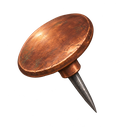
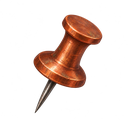
Match offer cards to approved full-height artwork and compact right-column layout

Changed region(s): [[0.125, 0.0938, 0.8125, 0.9062]]

diff --git a/src/Orders.tsx b/src/Orders.tsx
@@ -30,9 +30,9 @@ export function OrderTraits({order:o,alignLeft=false}:any){
  const band=o.durationBand||durationBand(o.durationSeconds??o.forecast?.seconds??0),bars=band==='Lang'?3:band==='Mittel'?2:1;
  const category=o.category==='international'?'Fern':o.category==='city'?'Stadt':'Nah',dual=o.routeType==='dual';
  return <View style={[styles.traits,alignLeft&&styles.leftTraits]}>
-  <View accessible accessibilityLabel={translate(category==='Nah'?'Nahverkehr':category==='Fern'?'Fernverkehr':'Stadtverkehr')} style={styles.trait}><Icon name="location" size={13} color={C.muted}/><Txt style={styles.traitLabel}>{category}</Txt></View>
-  <View accessible accessibilityLabel={translate(band)} style={styles.trait}><View testID={`duration-bars-${bars}`} style={styles.signal}>{[0,1,2].map(i=><View key={i} style={{width:3,height:4+i*4,backgroundColor:i<bars?C.text:'transparent',borderRadius:1}}/>)}</View><Txt style={styles.traitLabel}>{band}</Txt></View>
-  {!!o.routeType&&<View accessible accessibilityLabel={translate(dual?'Dual Way, beladene Hin- und Rückfahrt':'Single Way, beladene Hinfahrt und leere Rückfahrt')} style={styles.trait}><View style={styles.directions}><Icon name="direction" size={16} color={C.text}/><Icon name="direction" size={16} color={C.text} style={{transform:[{rotate:'180deg'}],opacity:dual?1:.25,marginTop:-7}}/></View><Txt style={styles.traitLabel}>{dual?'Dual':'Single'}</Txt></View>}
+  <View accessible accessibilityLabel={translate(category==='Nah'?'Nahverkehr':category==='Fern'?'Fernverkehr':'Stadtverkehr')} style={[styles.trait,alignLeft&&styles.compactTrait]}><Icon name="location" size={13} color={C.muted}/><Txt style={styles.traitLabel}>{category}</Txt></View>
+  <View accessible accessibilityLabel={translate(band)} style={[styles.trait,alignLeft&&styles.compactTrait]}><View testID={`duration-bars-${bars}`} style={styles.signal}>{[0,1,2].map(i=><View key={i} style={{width:3,height:4+i*4,backgroundColor:i<bars?C.text:'transparent',borderRadius:1}}/>)}</View><Txt style={styles.traitLabel}>{band}</Txt></View>
+  {!!o.routeType&&<View accessible accessibilityLabel={translate(dual?'Dual Way, beladene Hin- und Rückfahrt':'Single Way, beladene Hinfahrt und leere Rückfahrt')} style={[styles.trait,alignLeft&&styles.compactTrait]}><View style={styles.directions}><Icon name="direction" size={16} color={C.text}/><Icon name="direction" size={16} color={C.text} style={{transform:[{rotate:'180deg'}],opacity:dual?1:.25,marginTop:-7}}/></View><Txt style={styles.traitLabel}>{dual?'Dual':'Single'}</Txt></View>}
  </View>;
 }
 export function OrderTile({order:o,data,clock,onOpen,onPin,busy=false}:any){
@@ -42,12 +42,15 @@ export function OrderTile({order:o,data,clock,onOpen,onPin,busy=false}:any){
  if(!active&&!done)return <Card style={[styles.offer,styles.compactOffer,{borderLeftColor:o.customer?C.gold:C.rare}]}>
   <Pressable testID={`order-open-${o.id}`} accessibilityRole="button" accessibilityLabel={`${translate(o.cargo)}, ${o.id}, ${translate(o.category==='international'?'Fernverkehr':'Nahverkehr')}, ${translate(o.durationBand||durationBand(o.durationSeconds??o.forecast?.seconds??0))}, ${translate(o.routeType==='dual'?'Dual Way, beladene Hin- und Rückfahrt':'Single Way, beladene Hinfahrt und leere Rückfahrt')}, ${n(o.volume,1)} t, ${n(o.distance)} km`} onPress={()=>onOpen(o.id)} style={StyleSheet.absoluteFill}/>
   <View pointerEvents="none" accessibilityElementsHidden importantForAccessibility="no-hide-descendants">
-   <View style={styles.offerMain}><OrderArtwork cargo={o.cargo} size={60}/>
-    <View style={[styles.offerCopy,canPin&&styles.pinnableCopy]}><Txt style={[styles.title,canPin&&styles.offerTitle]}>{o.cargo}</Txt>
+   <View style={styles.offerMain}>
+    <View style={styles.offerCargo}><OrderArtwork cargo={o.cargo} fill/></View>
+    <View style={styles.offerDivider}/>
+    <View style={styles.offerCopy}><Txt style={[styles.title,canPin&&styles.offerTitle]}>{o.cargo}</Txt>
      <View testID={`order-facts-${o.id}`} style={styles.offerFacts}><View style={styles.offerFact}><Icon name="orders" size={13} color={C.muted}/><Txt style={styles.factValue}>{n(o.volume,1)} t</Txt></View><View style={styles.offerFact}><Icon name="location" size={13} color={C.muted}/><Txt style={styles.factValue}>{n(o.distance)} km</Txt></View></View>
-   </View></View>
-   <OrderTraits order={o} alignLeft/>
-   {(o.customer||!o.choices.length)&&<View style={{marginTop:5}}>{o.customer&&<Txt gold style={styles.traitLabel}>{o.customerName}</Txt>}{!o.choices.length&&<Txt muted style={styles.traitLabel}>{unavailable(o)}</Txt>}</View>}
+     <OrderTraits order={o} alignLeft/>
+     {(o.customer||!o.choices.length)&&<View style={{marginTop:5}}>{o.customer&&<Txt gold style={styles.traitLabel}>{o.customerName}</Txt>}{!o.choices.length&&<Txt muted style={styles.traitLabel}>{unavailable(o)}</Txt>}</View>}
+    </View>
+   </View>
   </View>
   {canPin&&<Pressable testID={`order-pin-${o.id}`} accessibilityRole="button" accessibilityLabel={translate(o.pinned?'Angebot freigeben':'Angebot halten')} accessibilityHint={holdFull?translate('Alle Halteplätze sind belegt.'):undefined} accessibilityState={{disabled:pinDisabled,selected:!!o.pinned}} aria-pressed={!!o.pinned} disabled={pinDisabled} onPress={event=>{event?.stopPropagation();if(!pinDisabled)onPin(o.id);}} material={false} style={[styles.pinButton,pinDisabled&&{opacity:.5}]}><OfferPinArtwork held={!!o.pinned}/></Pressable>}
  </Card>;
@@ -185,4 +188,4 @@ export function OrderDetail({data,id,busy,clock,onCommand,onBack,onSwitch,modalB
   {done&&reward?<Card><Txt style={[styles.title,{marginBottom:12}]}>Abschlussprämie</Txt>{fact('Imperium-Taler',`${n(reward.coins,2)}`)}{Object.entries(reward.gears||{}).filter(([,amount])=>Number(amount)>0).map(([rarity,amount])=><View key={rarity}><ItemAmount id={`gear:${rarity}`} label={`${data.catalog.rarities.find((r:any)=>r.id===rarity)?.label||rarity}-Zahnräder`} amount={Number(amount)}/></View>)}{reward.companyItems>0&&<ItemAmount id="companyItems" amount={reward.companyItems}/>}{reward.capacityModule&&<ItemAmount id="capacityModules" amount={1}/>}{reward.supplierContacts>0&&<ItemAmount id="supplierContacts" amount={reward.supplierContacts}/>}{!reward.claimedAt?<Btn disabled={busy} onPress={()=>onCommand('claim',{id:o.id})}>Prämie abholen</Btn>:<Txt muted>Abgeholt</Txt>}</Card>:null}
  </>;
 }
-const styles=StyleSheet.create({compactOffer:{position:'relative',paddingHorizontal:10,paddingVertical:8,minHeight:90},offerMain:{flexDirection:'row',alignItems:'center',gap:10,minHeight:60},offerCopy:{flex:1,minWidth:0},pinnableCopy:{paddingRight:0},offerTitle:{paddingRight:30},offerFacts:{flexDirection:'row',flexWrap:'wrap',columnGap:13,rowGap:2,marginTop:4,paddingRight:25},offerFact:{flexDirection:'row',alignItems:'center',gap:6},factValue:{fontSize:11,lineHeight:16},pinButton:{position:'absolute',right:6,top:3,width:44,height:44,alignItems:'center',justifyContent:'center',borderRadius:6},leftTraits:{justifyContent:'flex-start',columnGap:20,rowGap:5,flexWrap:'wrap'},traits:{flexDirection:'row',alignItems:'center',justifyContent:'space-between',gap:5,marginTop:6,borderTopWidth:StyleSheet.hairlineWidth,borderTopColor:C.line,paddingTop:5},trait:{flexDirection:'row',alignItems:'center',gap:4,flexShrink:1},traitLabel:{fontSize:11,lineHeight:16},signal:{width:15,height:14,flexDirection:'row',alignItems:'flex-end',gap:2,paddingBottom:1},directions:{height:19,width:18,justifyContent:'center'},tabs:{flexDirection:'row',gap:5,marginBottom:10},tab:{flex:1,minHeight:44,flexDirection:'row',alignItems:'center',justifyContent:'center',gap:5,borderWidth:1,borderColor:C.line,backgroundColor:C.panel,borderRadius:5},activeTab:{backgroundColor:C.accent,borderColor:C.ink},tabLabel:{fontSize:12,fontWeight:'700'},tabCount:{fontSize:11,color:C.muted},selectedTabText:{color:C.onInk},metrics:{flexDirection:'row',flexWrap:'wrap',gap:6},metric:{width:'48%',minWidth:0,flexDirection:'row',alignItems:'baseline',gap:5},metricLabel:{fontSize:10,lineHeight:15},metricValue:{fontSize:11,lineHeight:16,fontWeight:'700',flexShrink:1},quoteDisclosure:{minHeight:30,flexDirection:'row',alignItems:'center',justifyContent:'space-between',borderTopWidth:1,borderTopColor:C.line,marginTop:5},quoteDetails:{paddingTop:2},possibleRewards:{flexDirection:'row',flexWrap:'wrap',gap:6},possibleItem:{width:44,height:44,alignItems:'center',justifyContent:'center',backgroundColor:C.raised,borderWidth:1,borderRadius:6},possibleLabel:{fontSize:10,lineHeight:14,textAlign:'center'},title:{fontSize:15,fontWeight:'700'},small:{fontSize:12,lineHeight:17},section:{fontSize:13,fontWeight:'700',color:C.muted,marginTop:10,marginBottom:9},offer:{paddingHorizontal:12,paddingVertical:10,backgroundColor:C.panel,borderColor:C.line,borderLeftWidth:3,marginBottom:9},saved:{paddingHorizontal:10,paddingVertical:7,backgroundColor:C.panel,borderColor:C.line,minHeight:78},running:{paddingHorizontal:12,paddingVertical:10,backgroundColor:C.greenWash,borderColor:C.accent},refresh:{flexDirection:'row',alignItems:'center',justifyContent:'space-between',gap:8,marginBottom:8},refreshClock:{flexDirection:'row',alignItems:'center',gap:5,flexShrink:0},refreshTime:{fontSize:12,lineHeight:18,fontVariant:['tabular-nums']},refreshButton:{flex:1,maxWidth:210,minHeight:44,paddingHorizontal:10,paddingVertical:5,alignItems:'center',justifyContent:'center',backgroundColor:C.raised,borderWidth:1,borderBottomWidth:3,borderColor:C.line,borderRadius:5},refreshButtonLabel:{fontSize:12,lineHeight:17,fontWeight:'700',textAlign:'center'},refreshCost:{fontSize:11,lineHeight:16,textAlign:'center'},runningCard:{paddingHorizontal:9,paddingVertical:9},runningMain:{flexDirection:'row',alignItems:'center',gap:10},transportArt:{width:80},runningCopy:{flex:1,minWidth:0},runningHeading:{flexDirection:'row',alignItems:'flex-start',gap:5},runningTitle:{flex:1,fontSize:14,lineHeight:19},countdown:{fontSize:11,lineHeight:19,fontVariant:['tabular-nums']},transportName:{fontSize:11,lineHeight:16,marginTop:1},delivery:{flexDirection:'row',alignItems:'center',gap:8,marginTop:3},deliveryCount:{fontSize:11,lineHeight:16},deliveryBar:{flex:1},savedMain:{flexDirection:'row',alignItems:'center',gap:9},savedCopy:{flex:1,minWidth:0},savedTitle:{fontSize:15,lineHeight:20,fontWeight:'700'},savedCount:{minWidth:28,minHeight:28,padding:4,borderWidth:1,borderColor:C.line,borderRadius:4,alignItems:'center',justifyContent:'center',backgroundColor:C.accent},savedCountText:{fontSize:14,fontWeight:'700',color:C.onInk},vehicle:{padding:10,borderWidth:1,borderColor:C.line,borderRadius:10,marginTop:10}});
+const styles=StyleSheet.create({compactOffer:{position:'relative',paddingHorizontal:10,paddingVertical:8,minHeight:90},offerMain:{flexDirection:'row',alignItems:'center',gap:9,minHeight:84},offerCargo:{width:'29%',alignSelf:'stretch'},offerDivider:{width:StyleSheet.hairlineWidth,alignSelf:'stretch',backgroundColor:C.line,marginVertical:2},offerCopy:{flex:1,minWidth:0},offerTitle:{paddingRight:30},offerFacts:{flexDirection:'row',flexWrap:'wrap',columnGap:13,rowGap:2,marginTop:4,paddingRight:25},offerFact:{flexDirection:'row',alignItems:'center',gap:6},factValue:{fontSize:11,lineHeight:16},pinButton:{position:'absolute',right:6,top:3,width:44,height:44,alignItems:'center',justifyContent:'center',borderRadius:6},leftTraits:{justifyContent:'flex-start',columnGap:9,rowGap:4,flexWrap:'wrap'},compactTrait:{flexShrink:0},traits:{flexDirection:'row',alignItems:'center',justifyContent:'space-between',gap:5,marginTop:6,borderTopWidth:StyleSheet.hairlineWidth,borderTopColor:C.line,paddingTop:5},trait:{flexDirection:'row',alignItems:'center',gap:4,flexShrink:1},traitLabel:{fontSize:11,lineHeight:16},signal:{width:15,height:14,flexDirection:'row',alignItems:'flex-end',gap:2,paddingBottom:1},directions:{height:19,width:18,justifyContent:'center'},tabs:{flexDirection:'row',gap:5,marginBottom:10},tab:{flex:1,minHeight:44,flexDirection:'row',alignItems:'center',justifyContent:'center',gap:5,borderWidth:1,borderColor:C.line,backgroundColor:C.panel,borderRadius:5},activeTab:{backgroundColor:C.accent,borderColor:C.ink},tabLabel:{fontSize:12,fontWeight:'700'},tabCount:{fontSize:11,color:C.muted},selectedTabText:{color:C.onInk},metrics:{flexDirection:'row',flexWrap:'wrap',gap:6},metric:{width:'48%',minWidth:0,flexDirection:'row',alignItems:'baseline',gap:5},metricLabel:{fontSize:10,lineHeight:15},metricValue:{fontSize:11,lineHeight:16,fontWeight:'700',flexShrink:1},quoteDisclosure:{minHeight:30,flexDirection:'row',alignItems:'center',justifyContent:'space-between',borderTopWidth:1,borderTopColor:C.line,marginTop:5},quoteDetails:{paddingTop:2},possibleRewards:{flexDirection:'row',flexWrap:'wrap',gap:6},possibleItem:{width:44,height:44,alignItems:'center',justifyContent:'center',backgroundColor:C.raised,borderWidth:1,borderRadius:6},possibleLabel:{fontSize:10,lineHeight:14,textAlign:'center'},title:{fontSize:15,fontWeight:'700'},small:{fontSize:12,lineHeight:17},section:{fontSize:13,fontWeight:'700',color:C.muted,marginTop:10,marginBottom:9},offer:{paddingHorizontal:12,paddingVertical:10,backgroundColor:C.panel,borderColor:C.line,borderLeftWidth:3,marginBottom:9},saved:{paddingHorizontal:10,paddingVertical:7,backgroundColor:C.panel,borderColor:C.line,minHeight:78},running:{paddingHorizontal:12,paddingVertical:10,backgroundColor:C.greenWash,borderColor:C.accent},refresh:{flexDirection:'row',alignItems:'center',justifyContent:'space-between',gap:8,marginBottom:8},refreshClock:{flexDirection:'row',alignItems:'center',gap:5,flexShrink:0},refreshTime:{fontSize:12,lineHeight:18,fontVariant:['tabular-nums']},refreshButton:{flex:1,maxWidth:210,minHeight:44,paddingHorizontal:10,paddingVertical:5,alignItems:'center',justifyContent:'center',backgroundColor:C.raised,borderWidth:1,borderBottomWidth:3,borderColor:C.line,borderRadius:5},refreshButtonLabel:{fontSize:12,lineHeight:17,fontWeight:'700',textAlign:'center'},refreshCost:{fontSize:11,lineHeight:16,textAlign:'center'},runningCard:{paddingHorizontal:9,paddingVertical:9},runningMain:{flexDirection:'row',alignItems:'center',gap:10},transportArt:{width:80},runningCopy:{flex:1,minWidth:0},runningHeading:{flexDirection:'row',alignItems:'flex-start',gap:5},runningTitle:{flex:1,fontSize:14,lineHeight:19},countdown:{fontSize:11,lineHeight:19,fontVariant:['tabular-nums']},transportName:{fontSize:11,lineHeight:16,marginTop:1},delivery:{flexDirection:'row',alignItems:'center',gap:8,marginTop:3},deliveryCount:{fontSize:11,lineHeight:16},deliveryBar:{flex:1},savedMain:{flexDirection:'row',alignItems:'center',gap:9},savedCopy:{flex:1,minWidth:0},savedTitle:{fontSize:15,lineHeight:20,fontWeight:'700'},savedCount:{minWidth:28,minHeight:28,padding:4,borderWidth:1,borderColor:C.line,borderRadius:4,alignItems:'center',justifyContent:'center',backgroundColor:C.accent},savedCountText:{fontSize:14,fontWeight:'700',color:C.onInk},vehicle:{padding:10,borderWidth:1,borderColor:C.line,borderRadius:10,marginTop:10}});

diff --git a/src/OrderArtwork.tsx b/src/OrderArtwork.tsx
@@ -1,5 +1,5 @@
 import React,{memo} from 'react';
-import {Image} from 'react-native';
+import {Image,StyleSheet} from 'react-native';
 
 // Frameless, transparent miniatures: all sources are static and bundled offline.
 const cargoAssets:Record<string,number>={
@@ -18,12 +18,12 @@ const categories:Record<string,number>={
 // Legacy and customer-specific products use a neutral freight crate, never a
 // misleading basic commodity. This keeps saved orders from older versions usable.
 const freight=require('../assets/art/menu/inventory.png');
-export const OrderArtwork=memo(function OrderArtwork({cargo,category,size=68}:{cargo?:string;category?:string;size?:number}){
+export const OrderArtwork=memo(function OrderArtwork({cargo,category,size=68,fill=false}:{cargo?:string;category?:string;size?:number;fill?:boolean}){
  const source=category?categories[category]||freight:cargoAssets[cargo||'']||freight;
- return <Image accessible={false} accessibilityElementsHidden importantForAccessibility="no" source={source} resizeMode="contain" fadeDuration={0} style={{width:size,height:size,flexShrink:0}}/>;
+ return <Image accessible={false} accessibilityElementsHidden importantForAccessibility="no" source={source} resizeMode="contain" fadeDuration={0} style={fill?StyleSheet.absoluteFill:{width:size,height:size,flexShrink:0}}/>;
 });
 
 /** Decoration only; the enclosing independent 44-dp action owns its semantics. */
 export const OfferPinArtwork=memo(function OfferPinArtwork({held=false}:{held?:boolean}){
- return <Image accessible={false} accessibilityElementsHidden importantForAccessibility="no" source={require('../assets/art/orders/offer-pin.png')} resizeMode="contain" fadeDuration={0} style={{width:28,height:28,opacity:held?1:.65,transform:[{rotate:held?'-15deg':'0deg'}]}}/>;
+ return <Image accessible={false} accessibilityElementsHidden importantForAccessibility="no" source={held?require('../assets/art/orders/offer-pin.png'):require('../assets/art/orders/offer-pin-outline.png')} resizeMode="contain" fadeDuration={0} style={{width:28,height:28}}/>;
 });

diff --git a/docs/ui/single-orders-redesign.md b/docs/ui/single-orders-redesign.md
@@ -2,12 +2,12 @@
 
 Die drei Reiter verwenden eine kompakte gemeinsame Zeile mit Anzahl neben dem Titel und aktivem Petrol. Die globale Kopfzeile und untere Navigation bleiben unverändert.
 
-Angebote zeigen rahmenlose, transparente Warenillustrationen für Holz, Stein, Getreide, Erz und Wolle. Menge und Strecke stehen in einer Zeile; die vorhandenen Nah/Fern-, Dauer- und Single/Dual-Merkmale stehen darunter linksbündig über die volle Kartenbreite, einschließlich des Bereichs unter dem Warenbild. Die Halten-Aktion bleibt ein eigener 44-dp-Trefferbereich, einschließlich belegter Halteplätze, Freigeben und Busy-Sperre. Andere und historische Warennamen verwenden eine neutrale Frachtkiste statt eines falschen Basiswarenbilds. Der nächste automatische Wechsel erscheint mit der vorhandenen gemalten Messinguhr und einem Stunden-freien mm:ss-Countdown. „Angebote erneuern“ und der Preis stehen zweizeilig in der kompakten Schaltfläche daneben. Die Halten-Aktion zeigt eine rahmenlose gemalte Kupfer-Reißzwecke, gehalten kräftiger und leicht gedreht, ohne farbige Schaltflächenfläche.
+Angebote zeigen rahmenlose, transparente Warenillustrationen für Holz, Stein, Getreide, Erz und Wolle. Menge und Strecke stehen in einer Zeile; links steht das rahmenlose Warenbild über die volle Höhe der Inhaltszeile. Eine schmale senkrechte Linie trennt es von der rechten Spalte. Dort stehen Titel mit Pin, Menge mit Strecke sowie unter einer waagerechten Linie kompakt gruppierte Nah/Fern-, Dauer- und Single/Dual-Merkmale. Die Merkmale bleiben in der rechten Spalte; bei vergrößerter Schrift dürfen ganze Merkmalsgruppen umbrechen. Die Warenbilder werden mit contain eingepasst und nie abgeschnitten. Die Halten-Aktion bleibt ein eigener 44-dp-Trefferbereich, einschließlich belegter Halteplätze, Freigeben und Busy-Sperre. Andere und historische Warennamen verwenden eine neutrale Frachtkiste statt eines falschen Basiswarenbilds. Der nächste automatische Wechsel erscheint mit der vorhandenen gemalten Messinguhr und einem Stunden-freien mm:ss-Countdown. „Angebote erneuern“ und der Preis stehen zweizeilig in der kompakten Schaltfläche daneben. Die Halten-Aktion zeigt eine rahmenlose Pinnadel mit klar zylindrischem Spulenkopf. Ungehalten erscheint sie als dunkle Kupferkontur, gehalten kräftig kupferfarben, ohne farbige Schaltflächenfläche.
 
 Laufende Aufträge und aktive Expeditionsaufträge zeigen die zugewiesene Transportkarte. Waren-/Auftragsname und Restzeit stehen oben, darunter Gespannname und Merkmale bzw. Region. Liefermenge und Fortschritt bleiben zusammen. Eine redundante „Unterwegs“-Zwischenüberschrift und der Reiter-Benachrichtigungspunkt entfallen; die Abholen-Schaltfläche zeigt die Anzahl der Belohnungen. Die statischen Art-Unterbäume sind memoisiert; Sekundenupdates verändern weiterhin Restzeit und Fortschritt. Abgeschlossene Einzel-/Expeditionsaufträge erscheinen ausschließlich in der gemeinsamen Belohnungsabholung, ohne zusätzliche fertige Karten.
 
 Gespeicherte Aufträge verwenden kompakte illustrierte Kategorien mit rechter Anzahl und Chevron, ohne Sortier-Untertitel. „Transportkarten-“ und „Aufträge“ werden gezielt auf zwei Zeilen verteilt. Material zeigt Zahnräder und Rolle, Transportkarten einen Kartenfächer mit Pferdemotiv und Rolle. Beide Illustrationen haben echte Transparenz und keinen Bildrahmen. Die vorhandenen Ranggruppen erscheinen aufsteigend und behalten die gespeicherte Reihenfolge innerhalb desselben Rangs. Keine Aufträge werden beim Anzeigen/Sortieren verändert oder verbraucht.
 
-Die acht Bilder wurden mit eingebautem ImageGen erstellt; vollständige Prompts liegen unter `assets/art/orders/prompts.json`. Für die App sind sie auf 256 px (Waren) bzw. 320 px (Kategorien) verkleinert und verlustfrei als PNG mit Alpha gespeichert, mit unverändertem Alpha. Vorhandene Gespannbilder werden wiederverwendet.
+Die neun Bilder wurden mit eingebautem ImageGen erstellt; vollständige Prompts liegen unter `assets/art/orders/prompts.json`. Für die App sind sie auf 256 px (Waren), 320 px (Kategorien) bzw. 128 px (Pin-Zustände) verkleinert und als PNG mit echtem Alpha gespeichert. Vorhandene Gespannbilder werden wiederverwendet.
 
 Validierung: bestehende Tests für getrennte Halten-/Öffnen-Aktionen, Busy-/Slot-Sperren, Traits und gemeinsame Belohnungen; zusätzlich Kategorienzählung, Öffnungsziel, aufsteigende Ränge, unveränderte gespeicherte Daten und mm:ss-Grenzfälle am Ablaufzeitpunkt. Typecheck, vollständige Tests und Android-Export. Asset-Silhouetten und Transparenz visuell geprüft. Native Layout-/Scrollmessungen auf Android waren in dieser Umgebung nicht verfügbar; Export und Komponententests ersetzen keinen Gerätetest.
